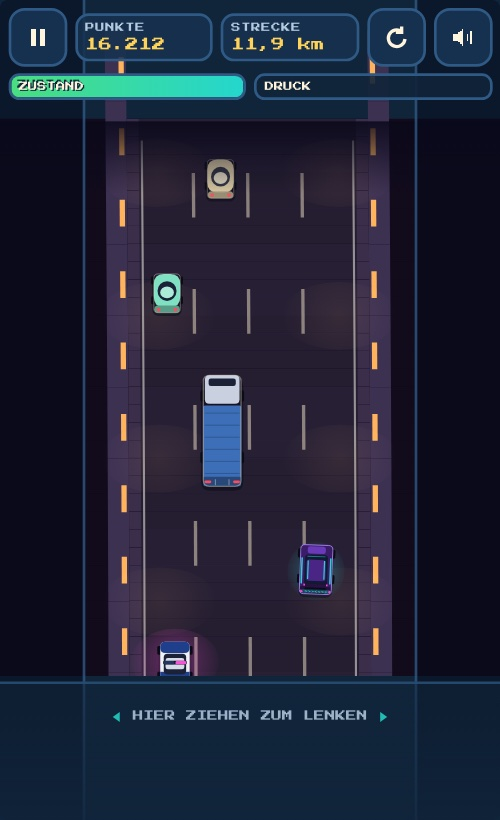
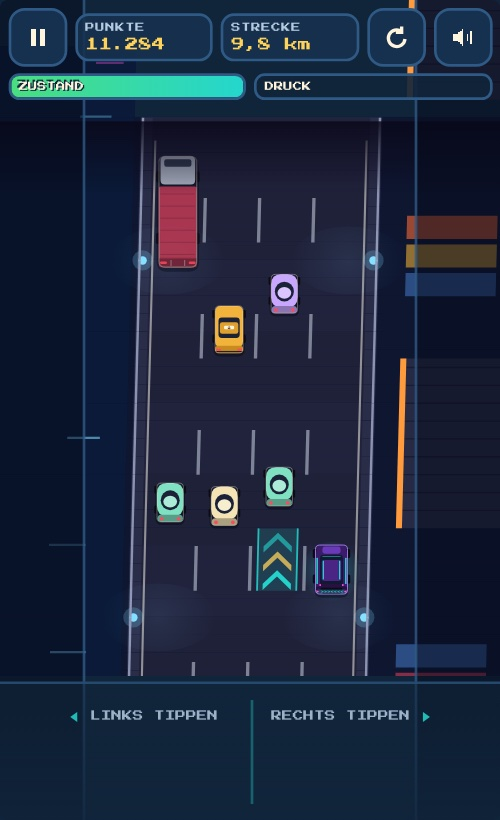
Nachtschicht: Text und Bilder für Spurwechsel per Klick und dichteren Verkehr

diff --git a/index.html b/index.html
@@ -696,15 +696,15 @@ const SPIELE = [
 
   {
     titel: 'NACHTSCHICHT: HAFENFLUCHT',
-    beschreibung: 'Ein schneller Neon-Arcade-Racer in der Draufsicht: Bei Vollgas durch eine erfundene 80er-Küstenmetropole, vorbei an Palmen, Neonhotels und Hafenlagern. Erkenne Lücken früh, weiche dichtem Verkehr aus, verbinde saubere Überholserien und nimm leuchtende Boostfelder mit. Hauptmodus Neon-Endlos, dazu drei kompakte Missionen mit optionalem Coup-Einstieg und eigener Synthwave-Musik.',
+    beschreibung: 'Ein schneller Neon-Arcade-Racer in der Draufsicht: Bei Vollgas durch eine erfundene 80er-Küstenmetropole, vorbei an Palmen, Neonhotels und Hafenlagern. Ein Tipp links oder rechts, und du bist eine Spur weiter: Weiche immer dichterem Verkehr aus, verbinde saubere Überholserien und nimm leuchtende Boostfelder mit. In Neon-Endlos wird es mit jedem Kilometer schneller und voller. Hauptmodus Neon-Endlos, dazu drei kompakte Missionen mit optionalem Coup-Einstieg und eigener Synthwave-Musik.',
     merkmale: ['Neon-Endlos', '3 Missionen', 'Boostfelder', 'Überholserien', 'Eigene 80er-Musik', 'Freunde-Rangliste'],
-    steuerung: 'Handy: Finger unten auf die Steuerfläche legen und seitlich ziehen (oder große Links-/Rechts-Knöpfe). Computer: Pfeiltasten oder A und D, Maus auf der Straße ziehen, P für Pause, M für Ton.',
+    steuerung: 'Handy: links oder rechts tippen = eine Spur wechseln (freies Ziehen wählbar). Computer: Pfeiltasten oder A und D (ein Druck = eine Spur), Mausklick links oder rechts, P für Pause, M für Ton.',
     spielen: 'https://moje9328.github.io/nachtschicht/',
     download: 'https://moje9328.github.io/nachtschicht/index.html',
     dateiname: 'nachtschicht.html',
     bilder: [
       { datei: 'bilder/nachtschicht-neon.jpg', text: 'Nachtschicht: Der violette Kombi weicht auf dem Neonboulevard zwischen Palmen und Neonhotels dichtem Verkehr aus, vor ihm ein leuchtendes Boostfeld' },
-      { datei: 'bilder/nachtschicht-streife.jpg', text: 'Nachtschicht: Im Lichttunnel folgt eine Streife mit Blaulicht, vorne ein Containerlaster und Kleinwagen' },
+      { datei: 'bilder/nachtschicht-streife.jpg', text: 'Nachtschicht: Dichter Verkehr bei hohem Tempo, der violette Kombi sucht die nächste Lücke' },
       { datei: 'bilder/nachtschicht-start.jpg', text: 'Nachtschicht: Startbildschirm mit Neonsonne, Palmen und dem Knopf Spielen' }
     ]
   },
